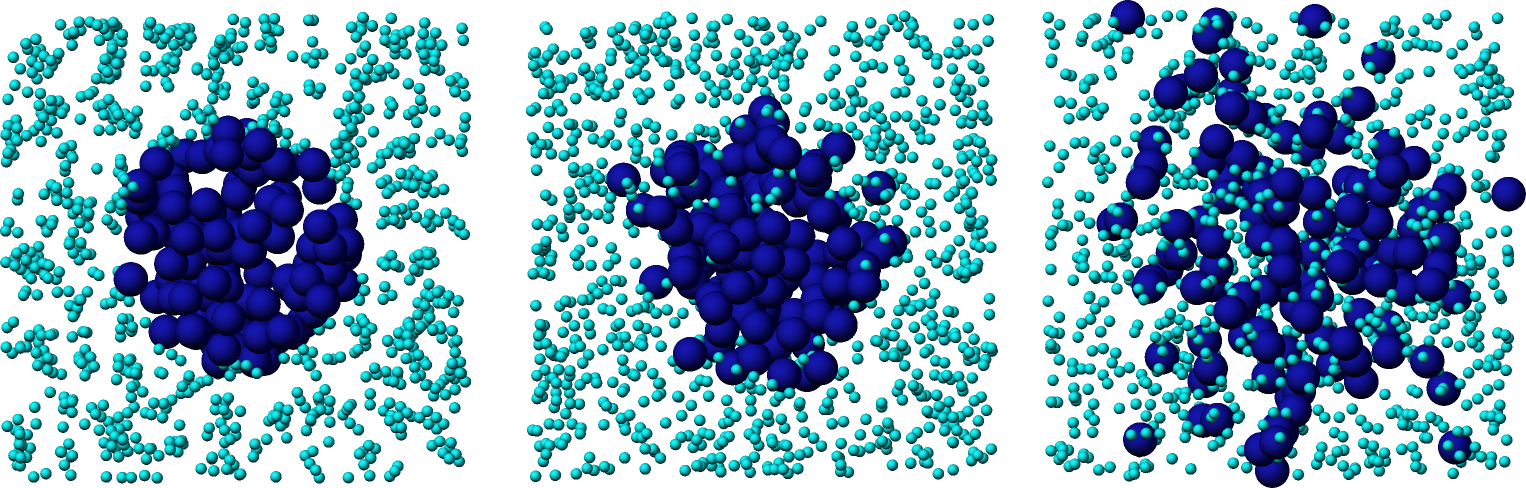
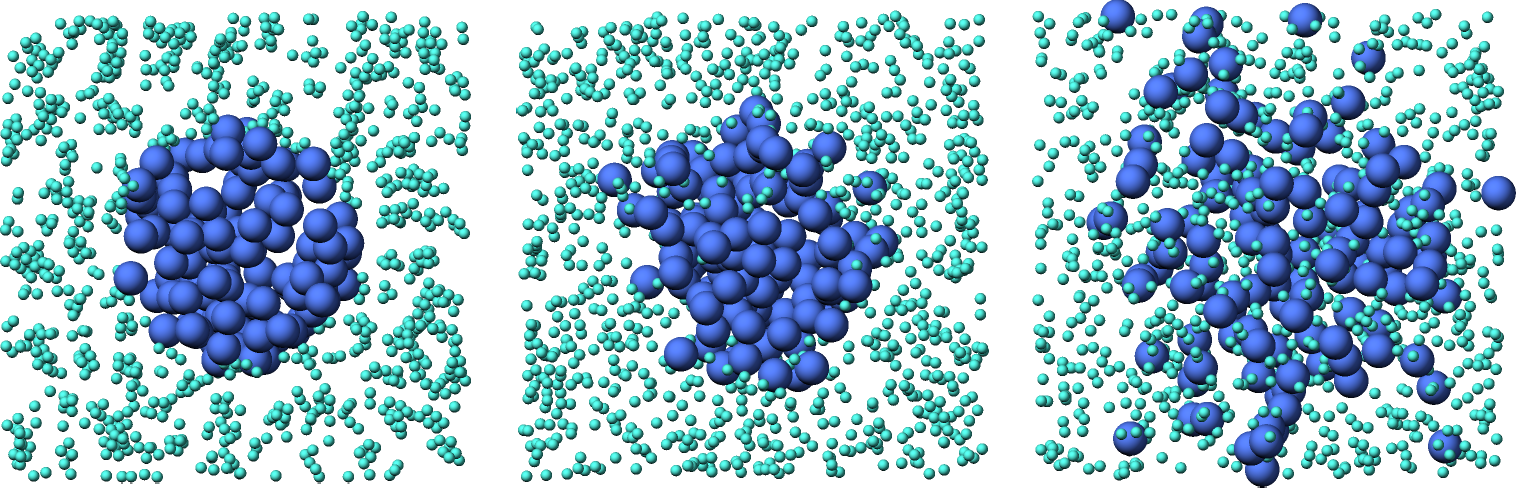
improved coloring of LJ-evolution

diff --git a/lammps-tutorials.tex b/lammps-tutorials.tex
@@ -845,7 +845,7 @@ dump viz all image 100 myimage-*.ppm type type &
     size 800 800 zoom 1.452 shiny 0.7 fsaa yes &
     view 80 10 box yes 0.025 axes no 0.0 0.0 &
     center s 0.483725 0.510373 0.510373
-dump_modify viz pad 9 boxcolor darkblue &
+dump_modify viz pad 9 boxcolor royalblue &
     backcolor white adiam 1 1.6 adiam 2 4.8
 \end{lstlisting}
 This command tells LAMMPS to generate NetPBM format images every 100
@@ -1057,9 +1057,8 @@ as large blue spheres.}
 \end{figure}
 
 Finally, let us complete the script by adding the following lines to
-\flecmd{improved.md.lmp}.  Note that there is no
-need for a \lmpcmd{Settings} section, because the settings are taken
-from the \flecmd{.data} file.
+\flecmd{improved.md.lmp}.  Note that there is no need for a \lmpcmd{Settings}
+section, as the settings are taken from the \flecmd{.data} file.
 \begin{lstlisting}
 # 4) Visualization
 thermo 1000
@@ -1068,12 +1067,13 @@ thermo_style custom step temp pe ke etotal &
 
 dump mydmp all image 100 dump.md.*.ppm type type &
   shiny 0.1 box no 0.01 view 0 0 zoom 1.8 fsaa yes
-dump_modify mydmp  adiam 1 1 adiam 2 3 acolor 1 &
-  darkturquoise acolor 2 darkblue backcolor white
+dump_modify mydmp adiam 1 1 adiam 2 3 acolor 1 &
+  turquoise acolor 2 royalblue backcolor white
 \end{lstlisting}
-The two variables, \lmpcmd{n1\_in}, \lmpcmd{n2\_in}, along with the compute
+The two variables \lmpcmd{n1\_in}, \lmpcmd{n2\_in}, along with the compute
 \lmpcmd{sumcoor12}, were added to the list of information printed during
-the simulation.
+the simulation. Additionally, images of the system will be created with
+slightly less saturated colors than the default ones. 
 
 Finally, add the following lines to \flecmd{improved.md.lmp}:
 \begin{lstlisting}
